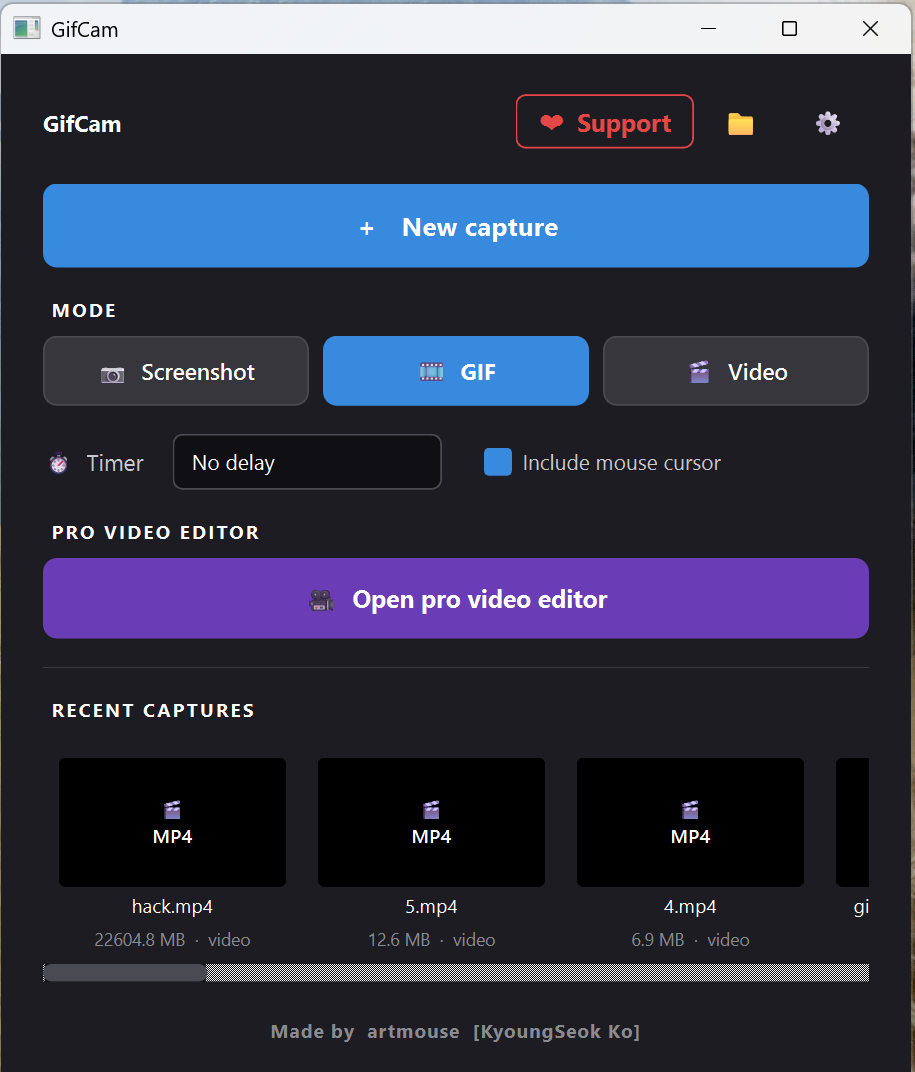
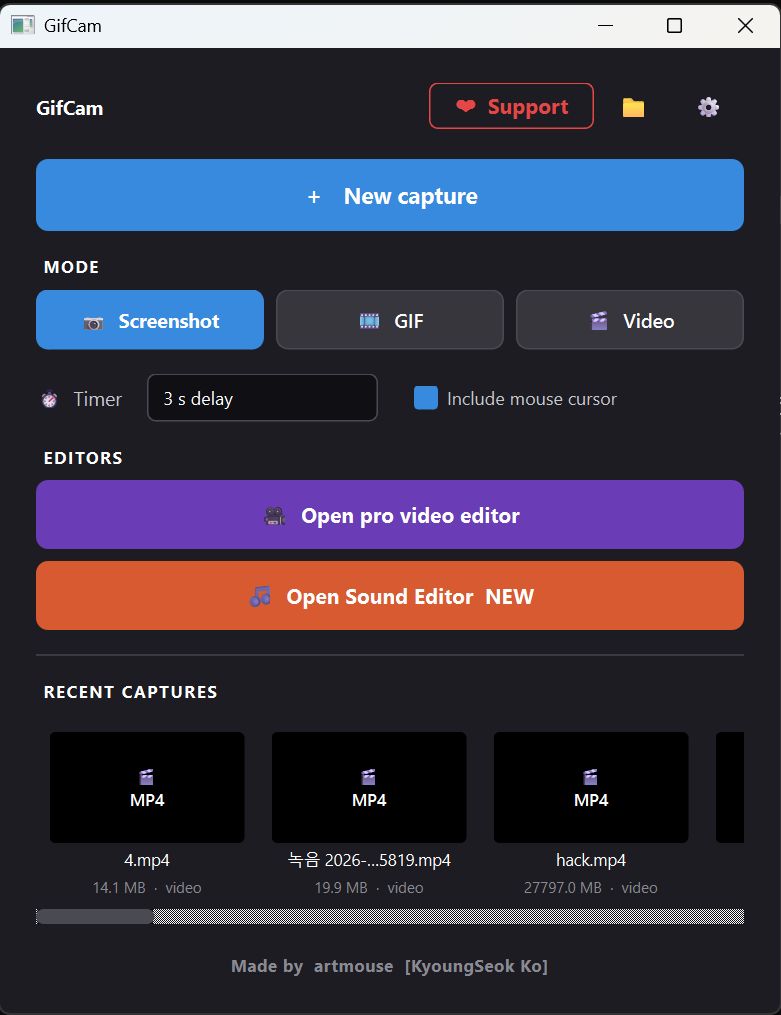
README 1.4: typography, color grading, sound editor
Update the public-facing README with three new feature sections —
kinetic typography (80+ animations + IN/HOLD/OUT composition),
DaVinci-style 3-wheel color grading, and the sound editor with
AI Master + Dynamics tabs. Refresh the screenshots to the post-1.4
UI (color wheels visible in the video editor) and add three new
shots (typography editor, sound editor AI Master tab, sound editor
Dynamics tab).

Other tweaks:
- "At a glance" table now lists video formats (MP4 / WebM / MOV),
  audio formats (MP3 / WAV / FLAC / ALAC / AAC / OGG), and the two
  new locales (中文 · Français)
- Add a 1.4 entry to the changelog highlights

diff --git a/README.md b/README.md
@@ -37,6 +37,34 @@ Select any range on the timeline and dial it from **0.25× up to 16× speed**. A
 
 Grab the **Fade** card and drop it on the track — the width of the placed actor is its duration. Drag the edges to resize. Right-click to toggle **Fade In / Fade Out / In + Out**. Preview shows the effect live.
 
+### 🅣 Kinetic typography you'd actually use in an MV
+
+Drop the **T** card on a track and double-click to open a 3-pane editor with **80+ kinetic animations** across Basic / Kinetic / Folding / HOLD categories — slide-ins, folds, glitches, paper-folds, a multi-layer Eve glitch with RGB split, and HOLD-phase loops that breathe, sway, shimmer.
+
+Each clip has three slots — **IN / HOLD / OUT** — and every slot accepts a primary animation **plus a list of "modifier" extras that stack on top**. Offsets add, rotations add, scale and opacity multiply. The practical combination count is in the millions.
+
+![Typography editor](docs/screenshots/typography-editor.png)
+
+### 🎨 DaVinci-style 3-wheel color grading
+
+Real chromaticity wheels for **Shadows / Midtones / Highlights** with luma-aware tonal masks — push shadows cool and highlights warm for the teal-and-orange MV look in two drags. Brightness / Contrast / Saturation are bipolar **knobs** that match the sound editor's UI vocabulary, so the whole editor reads as one consistent surface.
+
+Eight curated presets (Cinematic, Vintage, Cool, Warm, Faded, B&W, Punch, Mute) for one-click looks. Applies in real-time on preview via numpy and ships to the exported file via FFmpeg `eq` + `colorbalance`.
+
+### 🎚 Sound editor with AI mastering + dynamics
+
+A full sound editor lives behind the **Open Sound Editor** button — **Basic / EQ / Dynamics / Effects / Advanced / AI Master** tabs.
+
+The **AI Master** tab is for cleaning up the MP3-style artifacts in AI-generated music (Suno v3 / v4, Udio, ACE-Step) — one-click presets per model, plus 6-knob **Detailed Mastering** (Air, Clarity, Warmth, Width, Punch, Excite).
+
+![Sound editor — AI Master](docs/screenshots/sound-editor-ai-master.png)
+
+The **Dynamics** tab gives you a real Compressor (Threshold / Ratio / Attack / Release / Makeup / Knee with Voice Gentle / Voice Strong / Podcast presets) and a Noise Gate. All knobs match the rest of the editor.
+
+![Sound editor — Dynamics](docs/screenshots/sound-editor-dynamics.png)
+
+Audio export covers MP3, WAV, FLAC, ALAC, AAC, OGG with four quality presets (Low / Standard / High / Studio — sample rate & bit depth bumps).
+
 ### 🖱 One-click paste to Jira / Confluence / Slack
 
 Record, then press **Quick paste**. GifCam copies the file to the clipboard, refocuses the window you were editing, and sends `Ctrl+V` for you. No upload. No cloud. Just a file.
@@ -49,15 +77,16 @@ GPU-accelerated capture via the WGC API — 60 fps on large regions without the 
 
 ## At a glance
 
-| | GifCam 1.3 |
+| | GifCam |
 |---|---|
 | **Price** | Free, MIT license |
 | **Modes** | Screenshot / GIF / MP4 video |
 | **Theme** | Full dark mode (5-level palette) |
-| **Editor** | Multi-track timeline, per-segment speed, paint, speech bubbles, fades, subtitles |
-| **Export** | GIF (adaptive palette, optional gifski/gifsicle), MP4 (H.264) |
-| **Zoom** | Mouse-wheel on timelines (video + GIF) |
-| **Languages** | 한국어 · English · 日本語 · Deutsch |
+| **Pro video editor** | Multi-track timeline, per-segment speed (0.25×–16×), paint + speech bubbles + stickers, fades, subtitles, **kinetic typography** (80+ animations + composition), **3-wheel color grading** |
+| **Sound editor** | Basic · EQ · Dynamics · Effects · Advanced · **AI Master** (Suno / Udio / ACE-Step one-click fix + 6-knob mastering) |
+| **Video export** | MP4 (H.264) · WebM (VP9) · MOV — Low / Standard / High / Best quality presets |
+| **Audio export** | MP3 · WAV · FLAC · ALAC · AAC · OGG — Low / Standard / High / Studio quality presets |
+| **Languages** | 한국어 · English · 日本語 · 中文 · Français · Deutsch |
 | **Cloud upload** | None — everything stays on your machine |
 | **Shortcuts** | `Ctrl+Shift+N` new capture, `Ctrl+1/2/3` mode switch |
 
@@ -104,6 +133,7 @@ Not asking for a paycheck — just a signal that this is worth maintaining.
 
 ## Changelog highlights
 
+- **1.4** — Kinetic typography editor (80+ animations + IN/HOLD/OUT composition); DaVinci-style 3-wheel color grading + 8 presets; full sound editor with EQ / Dynamics / Effects / Advanced / **AI Master** tabs; multi-format export (MP4 / WebM / MOV); audio export covers MP3 / WAV / FLAC / ALAC / AAC / OGG with quality presets; two new locales (中文 · Français)
 - **1.3** — Full dark theme; speech bubbles; drag-drop fade transitions; mouse-wheel timeline zoom; sub-monitor capture fix; safer overwrite export
 - **1.2** — Paint-on-preview with live playback rendering
 - **1.1** — Multi-track timeline, per-region speed (0.25×–16×)
